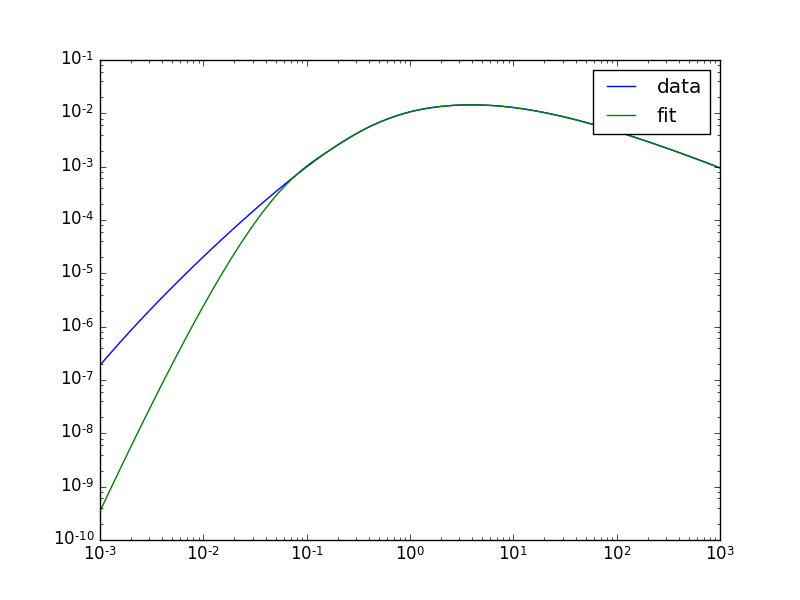
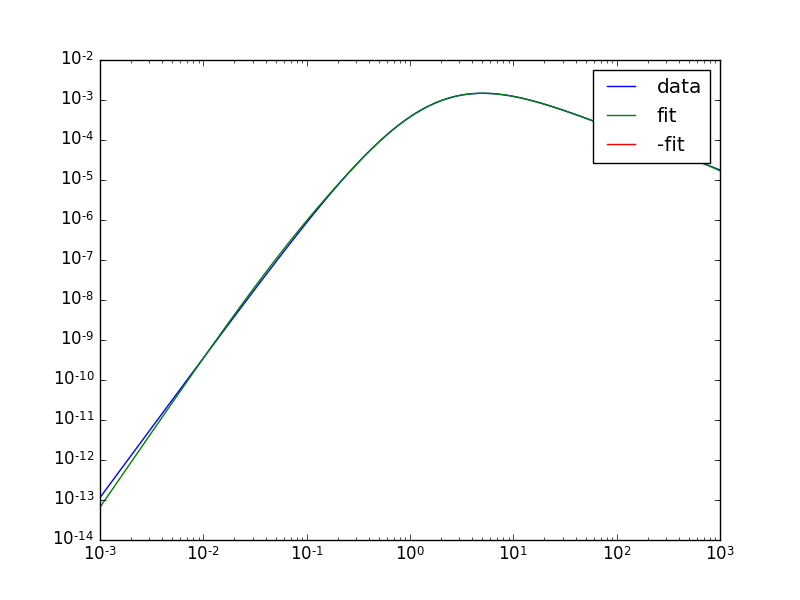
work on fitting

diff --git a/py/fit.py b/py/fit.py
@@ -1,9 +1,5 @@
 #!/usr/bin/python
 # -*- coding: utf-8 -*-
-#from multiprocessing import Pool, Queue, Lock
-#from Queue import Empty as QEmpty
-#import os
-#import time
 
 import numpy as np
 from scipy.special import spence
@@ -11,23 +7,27 @@ import matplotlib.pyplot as plt
 from scipy.optimize import curve_fit
 
 etas = []
-dataT = []
+data = []
 
 # read data
-with open("../data/dq1-q2_-2.dat", "r") as f:
+with open("../data/partonic/dq1-q2_2.dat", "r") as f:
   for line in f:
     line = line.strip().split("\t")
     eta, t, l, p = [float(x) for x in line]
     etas.append(eta)
-    dataT.append(t)
+    data.append(l)
 
 #etas = etas[:30]
-#dataT = dataT[:30]
+#data = data[:30]
 
 # trafos
+m2 = 4.75**2
+q2 = -1e2
 def rho(eta): return 1./(1.+eta)
 def beta(eta): return np.sqrt(1. - rho(eta))
 def chi(eta): return (1. - beta(eta))/(1. + beta(eta))
+def s(eta): return 4.*m2/rho(eta)
+def sp(eta): return s(eta) - q2
 
 def f(eta, b0,b1,b2,\
           rb0,rb1,rb2,rrb0,rrb1,rrb2,rrrb0,rrrb1,rrrb2,\
@@ -54,18 +54,41 @@ def g(eta, a,b,c,d,e,f,g,h,k,l):
   x = chi(eta)
   return (a/(x+1)+b/(x+1)**2+c/(x-1))*np.log(x)+(d/(x+1)+e/(x+1)**2+f/(x-1))*np.log(1+x)+(g/(x+1)+h/(x+1)**2)*np.log(1-x) + (k/(x+1)+l/(x+1)**2)*np.log(x)**2
 
+def h(eta, b0,b1,b2,b3,b4,\
+           sb0,sb1,sb2,sb3,\
+           lb0,lb1,lb2,lb3,lb4
+    ):
+  s_ = s(eta)
+  sp_ = sp(eta)
+  betas = [beta(eta)**j for j in [0,1,2,3,4,5,6,7,8,9,10,11,12]]
+  x = chi(eta)
+  return (beta(eta)**7)*(\
+	    np.dot([b0,b1,b2,b3,b4],betas[:5])+\
+            np.dot([lb0,lb1,lb2,lb3],betas[7:11])*np.log(x)+\
+            0#np.dot([sb0,sb1,sb2,sb3],betas[3:7])*spence(1-x)\
+	)
+
+def th(eta, a, b):
+  return a * (beta(eta)**b)
+def he(eta, a, b, c):
+  x = chi(eta)
+  return a/x+b+c* x
+
 #for j in range(len(etas)):
 #  print "%e\t%e"%(etas[j],dataT[j])
 
 # compute fit
-popt, pcov = curve_fit(f, etas, dataT)
+#popt, pcov = curve_fit(th, etas[:20], data[:20])
+#popt, pcov = curve_fit(he, etas[80:], data[80:])
+popt, pcov = curve_fit(h, etas, data)
 print len(popt),": ",popt
-fitPoints = [f(*(np.insert(popt,0,eta))) for eta in etas]
+fitPoints = [h(*(np.insert(popt,0,eta))) for eta in etas]
 
 # plot data
-plt.plot(etas,dataT)
+plt.plot(etas,data)
 plt.plot(etas,fitPoints)
-plt.legend(("data","fit"))
+plt.plot(etas,[-p for p in fitPoints])
+plt.legend(("data","fit", "-fit"))
 
 ax = plt.axes()
 ax.set_yscale('log')
@@ -74,13 +97,10 @@ ax.set_xscale('log')
 plt.savefig("fit.png")
 
 # plot error
-err = [np.abs((dataT[j] - fitPoints[j])/dataT[j]) for j in range(len(etas))]
+err = [np.abs((data[j] - fitPoints[j])/data[j]) for j in range(len(etas))]
 plt.figure()
 plt.loglog(etas,err)
 ax = plt.axes()
 ax.set_ylim(1e-6,1e2)
-#ax.set_xscale('log')
-#ax.set_yscale('log')
 
 plt.savefig("fit-err.png")
-#plt.show()

diff --git a/CodeLiteWS/ElProduction/main.cpp b/CodeLiteWS/ElProduction/main.cpp
@@ -46,64 +46,13 @@ int test(){
     dbl Delta = 1e-6;
     dbl m2 = 1.5*1.5;
     dbl q2 = -1.e2;
-    ElProduction o(m2,q2,Delta,G,3);
-    //o.setPdf("cteq66",0);
-    /*o.setPdf("DSSV90cl",0);
+    ElProduction o(m2,q2,Delta,L,3);
+    o.setPdf("MorfinTungB",0);
     o.setMu2(4.*m2-q2);
-    o.setBjorkenX(7.943282e-01);
+    dbl x = 1e-4;
+    o.setBjorkenX(x);
     o.setAlphaS(0.18904419407331516);
-    printf("%e\n",o.Fg1());*/
-    /*dbl xi = 1e0;
-    ElProduction oG(1.,-xi,Delta,G,4);
-    ElProduction oL(1.,-xi,Delta,L,4);
-    dbl eta;
-    uint N = 51;
-    for (uint j = 0; j < N; ++j) {
-        eta = pow(10.,2.-6./(N-1.)*j);
-        oG.setEta(eta);
-        oL.setEta(eta);
-        printf("%e\t%e\n",eta,(oG.dq1()+oL.dq1()/2.));
-    }*/
-    /*oG.setEta(1e-4);
-    printf("%e",oG.dq1());*/
-    /*uint N = 21;
-    for(uint j = 0; j < N; ++j) {
-        dbl m2 = 120. - 100.*j/(N-1);
-        printf("%e\t",m2);
-        ElProduction oG(m2,-1e3,Delta,G,4);
-        oG.setEta(1e-3);
-        //oG.setPartonicS(400);
-        printf("%e\t",oG.dq1());
-        oG.setEta(2e-3);
-        //oG.setPartonicS(390);
-        printf("%e\t",oG.dq1());
-        oG.setEta(3e-3);
-        //oG.setPartonicS(380);
-        printf("%e\t",oG.dq1());
-        oG.setEta(4e-3);
-        //oG.setPartonicS(370);
-        printf("%e\n",oG.dq1());
-    }*/
-    /*dbl m2 = 1.5*1.5;
-    ElProduction o(m2,-1e2,Delta,G,4);
-    uint N = 21;
-    for(uint j = 0; j < N; ++j) {
-        dbl q2 = -pow(10,3.+4./(N-1)*j);
-        o.setQ2(q2);
-        printf("%e\t",-q2);
-        o.setEta(1e-3);
-        printf("%e\t",o.dq1());
-        o.setEta(2e-3);
-        printf("%e\t",o.dq1());
-        o.setEta(1e-2);
-        printf("%e\t",o.dq1());
-        o.setEta(1e-1);
-        printf("%e\n",o.dq1());
-    }*/
-    /*ElProduction o(1.5*1.5,-1e3,Delta,G,4);
-    o.setEta(1e-3);
-    printf("%e\n",o.dq1());*/
-    //IntAG2(1.5*1.5,-1e3,1009.009,1.1153579464537023e-6,-519.81269239429935);
+    printf("%e\n",x*o.Fg0());
     return EXIT_SUCCESS;
 }
 

diff --git a/CodeLiteWS/ElProduction/src/PdfConvLO.hpp b/CodeLiteWS/ElProduction/src/PdfConvLO.hpp
@@ -38,6 +38,9 @@ public:
         dbl me = cg0(m2,q2,sp);
         //printf("a: %e, x: %e, z_max: %e, z: %e\n",a,bjorkenX,zMax,z);
         //printf("s_min: %e, s: %e, me: %e\n",4.*m2,s,me);
+        if (this->bjorkenX/z < this->pdf->xMin()) {
+            printf("x/z out of range: %e\n",this->bjorkenX/z);
+        }
         /** @todo missing factor of x_bj? */
         return jac * 1./this->bjorkenX * this->pdf->xfxQ2(21,this->bjorkenX/z,this->muF2) * me;
     }

diff --git a/py/run3-partonic.py b/py/run3-partonic.py
@@ -4,5 +4,17 @@
 from PartonicRunner import PartonicRunner
 
 # parameters
-r = PartonicRunner(m2 = 4.75**2, q2 = -1.e3, Delta = 1e-6,nlf = 4,f = "cg1",fp = "cg1-q2_3.dat",Neta = 11)
+r = PartonicRunner(m2 = 4.75**2, q2 = -1.e3, Delta = 1e-6,nlf = 4,f = "dq1",fp = "dq1-q2_3.dat",Neta = 101)
+r.run()
+
+r.q2= -1e2
+r.fp = "dq1-q2_2.dat"
+r.run()
+
+r.q2= -1e1
+r.fp = "dq1-q2_1.dat"
+r.run()
+
+r.q2= -1e-2
+r.fp = "dq1-q2_-2.dat"
 r.run()

diff --git a/py/PartonicRunner.py b/py/PartonicRunner.py
@@ -91,6 +91,7 @@ def _threadWorker(qi, qo, oArgs,lenParams):
        f = p["f"]
        if "rand" == f: p["res"] = np.random.rand()
        elif "cg1" == f: p["res"] = o.cg1()
+       elif "dq1" == f: p["res"] = o.dq1()
        qo.put(p)
 
        # log progress
